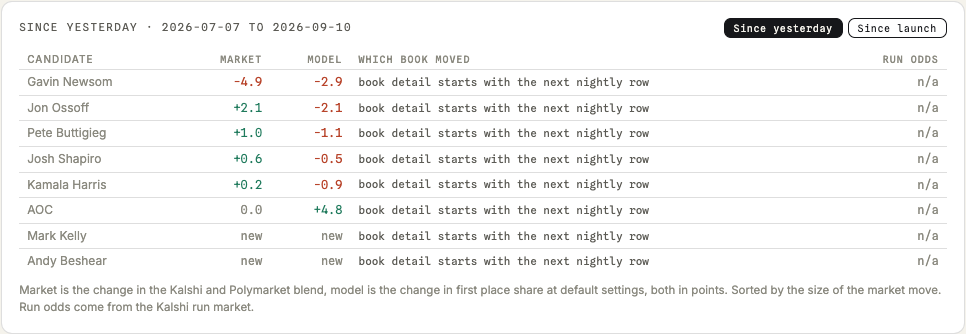
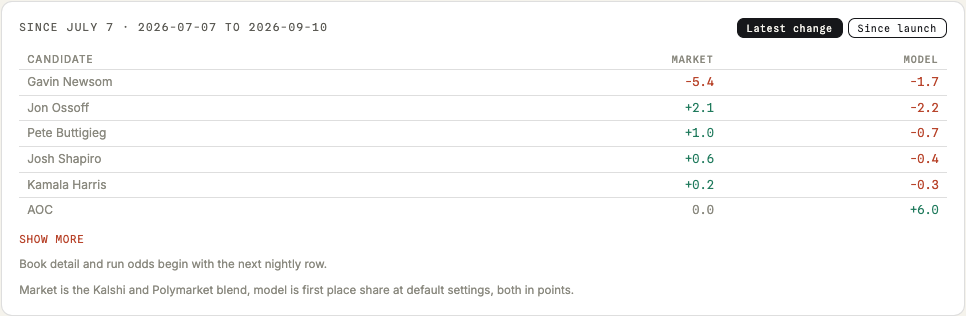
Daily strip: drop empty columns, label by compared dates, six rows with show more

diff --git a/index.html b/index.html
@@ -218,6 +218,8 @@ body.show-adv .ctl.adv{display:flex;}
 .cstable td{padding:3px 8px;text-align:right;border-top:1px solid var(--rule);white-space:nowrap;}
 .cstable th:first-child,.cstable td:first-child{text-align:left;font-family:'Inter',sans-serif;}
 .cstable .book{text-align:left;color:var(--muted);font-size:11px;}
+.cstable .nottracked{text-align:center;color:var(--faint);font-style:italic;font-family:'Inter',sans-serif;font-size:11.5px;}
+.csmorelink{display:inline-block;margin-top:8px;font-family:'Spline Sans Mono',monospace;font-size:11px;letter-spacing:.06em;text-transform:uppercase;color:var(--wire);text-decoration:none;}
 .up{color:var(--tealx);}.down{color:var(--wire);}
 .brgrid{display:grid;grid-template-columns:repeat(auto-fit,minmax(260px,1fr));gap:6px 18px;margin-bottom:10px;}
 .brcols{display:grid;grid-template-columns:1fr 1fr;gap:14px;margin-top:12px;}
@@ -297,7 +299,7 @@ body.show-adv h2.s.adv{display:block;}
  <div class="hero-note" id="heroNote"></div>
 </div>
 
-<div class="section changestrip" id="changestrip"><div class="shead"><span id="csTitle">Since yesterday</span><span class="row" style="gap:5px;"><button class="seg on" id="csDay" onclick="setChangeMode('day')">Since yesterday</button><button class="seg" id="csLaunch" onclick="setChangeMode('launch')">Since launch</button></span></div><div id="csBody" class="muted">Loading history.csv</div></div>
+<div class="section changestrip" id="changestrip"><div class="shead"><span id="csTitle">Since yesterday</span><span class="row" style="gap:5px;"><button class="seg on" id="csDay" onclick="setChangeMode('day')">Latest change</button><button class="seg" id="csLaunch" onclick="setChangeMode('launch')">Since launch</button></span></div><div id="csBody" class="muted">Loading history.csv</div></div>
 
 <div id="aggregate" class="section"><div class="shead"><span>Model result</span><span class="note">loading default.json</span></div><div id="aggBody" class="muted">Loading the precomputed default run.</div></div>
 
@@ -1053,13 +1055,19 @@ function setChangeMode(m){HIST.mode=m;document.getElementById('csDay').classList
 function sgn(x){return (x>0?'+':'')+x.toFixed(1);}
 function cls(x){return x>0?'up':(x<0?'down':'');}
 function numOr(v){const x=parseFloat(v);return isFinite(x)?x:null;}
+function stripLabel(base,last){
+ const d0=new Date(base.date+'T12:00:00'),d1=new Date(last.date+'T12:00:00');
+ const days=Math.round((d1-d0)/86400000);
+ if(days===1)return 'Since yesterday';
+ return 'Since '+d0.toLocaleDateString('en-US',{month:'long',day:'numeric'});
+}
 function renderChangeStrip(){
  const body=document.getElementById('csBody'),title=document.getElementById('csTitle');
  const rows=HIST.rows;
- if(rows.length<2){body.innerHTML='<b>First run</b> · the strip fills in once history.csv has two rows.';title.textContent='Since yesterday';return;}
+ if(rows.length<2){body.innerHTML='<b>First run</b> · the strip fills in once history.csv has two rows.';title.textContent='Latest change';return;}
  const last=rows[rows.length-1];
  const base=HIST.mode==='launch'?rows[0]:rows[rows.length-2];
- title.textContent=(HIST.mode==='launch'?'Since launch':'Since yesterday')+' · '+base.date+' to '+last.date;
+ title.textContent=(HIST.mode==='launch'?'Since launch':stripLabel(base,last))+' · '+base.date+' to '+last.date;
  const ids=CANDS.map(c=>c.id).filter(id=>id!=='other'&&numOr(last['k_'+id])!==null);
  const top=ids.slice().sort((a,b)=>numOr(last['k_'+b])-numOr(last['k_'+a])).slice(0,8);
  const items=top.map(id=>{
@@ -1069,18 +1077,29 @@ function renderChangeStrip(){
   const r1=numOr(last['run_'+id]),r0=numOr(base['run_'+id]);
   return {id,dk:k0===null?null:k1-k0,dm:m0===null?null:m1-m0,kal,pol,dr:(r1===null||r0===null)?null:r1-r0};
  }).sort((a,b)=>Math.abs(b.dk===null?0:b.dk)-Math.abs(a.dk===null?0:a.dk));
- let h='<table class="cstable"><tr><th>Candidate</th><th>Market</th><th>Model</th><th style="text-align:left">Which book moved</th><th>Run odds</th></tr>';
- items.forEach(x=>{
-  let book='book detail starts with the next nightly row';
+ // only render the book and run columns when at least one row has the data
+ const hasBook=items.some(x=>x.kal!==null&&x.pol!==null), hasRun=items.some(x=>x.dr!==null);
+ const baseMonth=new Date(base.date+'T12:00:00').toLocaleDateString('en-US',{month:'long'});
+ let h='<table class="cstable"><tr><th>Candidate</th><th>Market</th><th>Model</th>'+(hasBook?'<th style="text-align:left">Which book moved</th>':'')+(hasRun?'<th>Run odds</th>':'')+'</tr>';
+ items.forEach((x,i)=>{
+  let book='';
   if(x.kal!==null&&x.pol!==null){
    if(Math.abs(x.kal)<0.05&&Math.abs(x.pol)<0.05)book='neither book moved';
    else if(Math.abs(x.kal)>Math.abs(x.pol))book='Kalshi moved more ('+sgn(x.kal)+' vs Polymarket '+sgn(x.pol)+')';
    else if(Math.abs(x.pol)>Math.abs(x.kal))book='Polymarket moved more ('+sgn(x.pol)+' vs Kalshi '+sgn(x.kal)+')';
    else book='both books '+sgn(x.kal);
   }
-  h+='<tr><td>'+nm(x.id)+'</td><td class="'+(x.dk===null?'':cls(x.dk))+'">'+(x.dk===null?'new':sgn(x.dk))+'</td><td class="'+(x.dm===null?'':cls(x.dm))+'">'+(x.dm===null?'new':sgn(x.dm))+'</td><td class="book">'+book+'</td><td class="'+(x.dr===null?'':cls(x.dr))+'">'+(x.dr===null?'n/a':sgn(x.dr))+'</td></tr>';
+  h+='<tr'+(i>=6?' class="csmore" hidden':'')+'><td>'+nm(x.id)+'</td>';
+  if(x.dk===null&&x.dm===null)h+='<td colspan="2" class="nottracked">not tracked in '+baseMonth+'</td>';
+  else h+='<td class="'+(x.dk===null?'':cls(x.dk))+'">'+(x.dk===null?'':sgn(x.dk))+'</td><td class="'+(x.dm===null?'':cls(x.dm))+'">'+(x.dm===null?'':sgn(x.dm))+'</td>';
+  if(hasBook)h+='<td class="book">'+book+'</td>';
+  if(hasRun)h+='<td class="'+(x.dr===null?'':cls(x.dr))+'">'+(x.dr===null?'':sgn(x.dr))+'</td>';
+  h+='</tr>';
  });
- h+='</table><div class="legend">Market is the change in the Kalshi and Polymarket blend, model is the change in first place share at default settings, both in points. Sorted by the size of the market move. Run odds come from the Kalshi run market.</div>';
+ h+='</table>';
+ if(items.length>6)h+='<a class="csmorelink" href="#" onclick="event.preventDefault();document.querySelectorAll(\'#csBody .csmore\').forEach(r=>r.hidden=!r.hidden);this.textContent=this.textContent===\'Show more\'?\'Show fewer\':\'Show more\';">Show more</a>';
+ if(!hasBook&&!hasRun)h+='<div class="legend">Book detail and run odds begin with the next nightly row.</div>';
+ h+='<div class="legend">Market is the Kalshi and Polymarket blend, model is first place share at default settings, both in points.</div>';
  body.innerHTML=h;
 }
 // ==YOUR BRACKET== reader priors for the top six by market, encoded in the URL as ?me=
